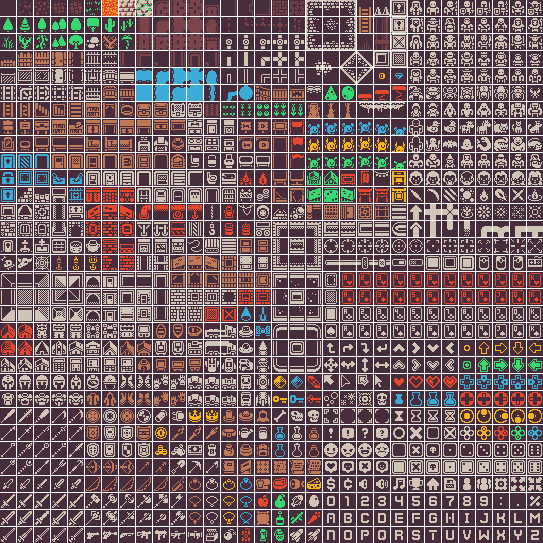
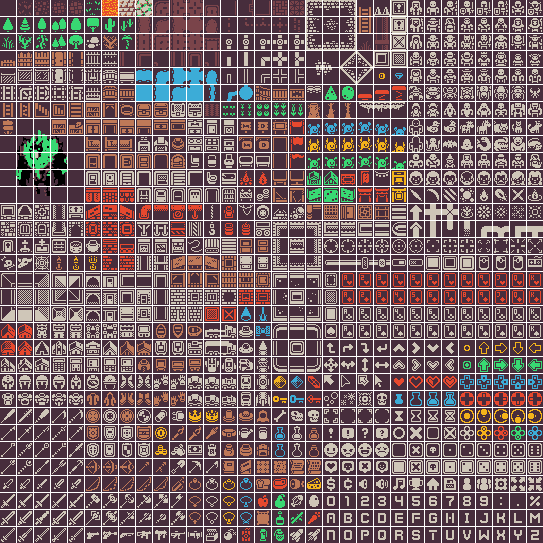
Add boss to png, add Boss class to project, add BossPart to project, implemented Boss fight

Changed region(s): [[0.0, 0.2063, 0.1473, 0.3831]]

diff --git a/src/main/java/com/codecool/dungeoncrawl/logic/MapLoader.java b/src/main/java/com/codecool/dungeoncrawl/logic/MapLoader.java
@@ -94,6 +94,64 @@ public class MapLoader {
                             cell.setType(CellType.FLOOR);
                             new Axe(cell, "axe");
                             break;
+
+                        case '0':
+                            cell.setType(CellType.FLOOR);
+                            map.setBoss(new Boss(cell));
+                            map.getBoss().addCells(cell);
+                            break;
+
+                        case '1':
+                            cell.setType(CellType.FLOOR);
+                            new BossPart(cell, map.getBoss(), 2);
+                            map.getBoss().addCells(cell);
+                            break;
+                        case 'j':
+                            cell.setType(CellType.FLOOR);
+                            new BossPart(cell, map.getBoss(), 11);
+                            map.getBoss().addCells(cell);
+                            break;
+                        case '2':
+                            cell.setType(CellType.FLOOR);
+                            new BossPart(cell, map.getBoss(), 3);
+                            map.getBoss().addCells(cell);
+                            break;
+                        case '3':
+                            cell.setType(CellType.FLOOR);
+                            new BossPart(cell, map.getBoss(), 4);
+                            map.getBoss().addCells(cell);
+                            break;
+                        case '4':
+                            cell.setType(CellType.FLOOR);
+                            new BossPart(cell, map.getBoss(), 5);
+                            map.getBoss().addCells(cell);
+                            break;
+                        case '5':
+                            cell.setType(CellType.FLOOR);
+                            new BossPart(cell, map.getBoss(), 6);
+                            map.getBoss().addCells(cell);
+                            break;
+                        case '6':
+                            cell.setType(CellType.FLOOR);
+                            new BossPart(cell, map.getBoss(), 7);
+                            map.getBoss().addCells(cell);
+                            break;
+                        case '7':
+                            cell.setType(CellType.FLOOR);
+                            new BossPart(cell, map.getBoss(), 8);
+                            map.getBoss().addCells(cell);
+                            break;
+                        case '8':
+                            cell.setType(CellType.FLOOR);
+                            new BossPart(cell, map.getBoss(), 9);
+                            map.getBoss().addCells(cell);
+                            break;
+                        case '9':
+                            cell.setType(CellType.FLOOR);
+                            new BossPart(cell, map.getBoss(), 10);
+                            map.getBoss().addCells(cell);
+                            break;
+
                         default:
                             throw new RuntimeException("Unrecognized character: '" + line.charAt(x) + "'");
                     }

diff --git a/src/main/java/com/codecool/dungeoncrawl/logic/actors/Player.java b/src/main/java/com/codecool/dungeoncrawl/logic/actors/Player.java
@@ -51,7 +51,10 @@ public class Player extends Actor {
 
     public void move(int dx, int dy) {
         Cell nextCell = cell.getNeighbor(dx, dy);
-        currentEnemy = nextCell.getActor();
+        if(nextCell.getActor() instanceof BossPart){
+            currentEnemy = nextCell.getMap().getBoss();
+        }else{
+        currentEnemy = nextCell.getActor();}
         setHealthChange(0);
         setStrengthChange(0);
         setDodgeChanceChange(0);
@@ -90,9 +93,14 @@ public class Player extends Actor {
             if(currentEnemy.getHealth() > 0) {
                 currentEnemy.attack(this);
             } else {
+                if(currentEnemy instanceof Boss){
+                    for(Cell part : ((Boss) currentEnemy).getBossParts()){
+                        part.setActor(null);
+                    }
+                } else{
                 cell.setActor(null);
                 nextCell.setActor(this);
-                cell = nextCell;
+                cell = nextCell;}
             }
         } if (nextCell.getType().equals(CellType.LAVA)){
             setHealthChange(-2);

diff --git a/src/main/java/com/codecool/dungeoncrawl/logic/GameMap.java b/src/main/java/com/codecool/dungeoncrawl/logic/GameMap.java
@@ -1,9 +1,6 @@
 package com.codecool.dungeoncrawl.logic;
 
-import com.codecool.dungeoncrawl.logic.actors.Actor;
-import com.codecool.dungeoncrawl.logic.actors.Bat;
-import com.codecool.dungeoncrawl.logic.actors.Ghost;
-import com.codecool.dungeoncrawl.logic.actors.Player;
+import com.codecool.dungeoncrawl.logic.actors.*;
 import com.codecool.dungeoncrawl.logic.items.Item;
 
 import java.util.ArrayList;
@@ -18,6 +15,7 @@ public class GameMap {
 
     private Item item;
     private List<Actor> enemies = new ArrayList<>();
+    private Boss boss;
 
     public GameMap(int width, int height, CellType defaultCellType) {
         this.width = width;
@@ -38,6 +36,13 @@ public class GameMap {
         this.player = player;
     }
 
+    public void setBoss(Boss boss){
+        this.boss = boss;
+    }
+
+    public Boss getBoss() {
+        return boss;
+    }
 
     public void setItem(Item item) {this.item = item;}
 

diff --git a/src/main/java/com/codecool/dungeoncrawl/Tiles.java b/src/main/java/com/codecool/dungeoncrawl/Tiles.java
@@ -44,6 +44,20 @@ public class Tiles {
         tileMap.put("lava", new Tile(6,0));
         tileMap.put("toxic", new Tile(19,11));
         tileMap.put("bear", new Tile(30, 8));
+
+        tileMap.put("boss1", new Tile(2,7));
+        tileMap.put("boss2", new Tile(1,8));
+        tileMap.put("boss3", new Tile(2,8));
+        tileMap.put("boss4", new Tile(3,8));
+        tileMap.put("boss5", new Tile(1,9));
+        tileMap.put("boss6", new Tile(2,9));
+        tileMap.put("boss7", new Tile(3,9));
+        tileMap.put("boss8", new Tile(1,10));
+        tileMap.put("boss9", new Tile(2,10));
+        tileMap.put("boss10", new Tile(3,10));
+        tileMap.put("boss11", new Tile(2,11));
+
+
     }
 
     public static void drawTile(GraphicsContext context, Drawable d, int x, int y) {

diff --git a/src/main/java/com/codecool/dungeoncrawl/logic/actors/Boss.java b/src/main/java/com/codecool/dungeoncrawl/logic/actors/Boss.java
@@ -1,0 +1,27 @@
+package com.codecool.dungeoncrawl.logic.actors;
+
+import com.codecool.dungeoncrawl.logic.Cell;
+
+import java.util.ArrayList;
+import java.util.List;
+
+public class Boss extends Actor{
+    private List<Cell> bossParts = new ArrayList<>();
+
+    public Boss(Cell cell) {
+        super(cell);
+    }
+
+    @Override
+    public String getTileName() {
+        return "boss1";
+    }
+
+    public void addCells(Cell cell){
+        bossParts.add(cell);
+    }
+
+    public List<Cell> getBossParts() {
+        return bossParts;
+    }
+}

diff --git a/src/main/java/com/codecool/dungeoncrawl/logic/actors/BossPart.java b/src/main/java/com/codecool/dungeoncrawl/logic/actors/BossPart.java
@@ -1,0 +1,22 @@
+package com.codecool.dungeoncrawl.logic.actors;
+
+import com.codecool.dungeoncrawl.logic.Cell;
+
+public class BossPart extends Actor{
+    private Boss boss;
+    private int part;
+    public BossPart(Cell cell, Boss boss, int part) {
+        super(cell);
+        this.boss = boss;
+        this.part = part;
+    }
+
+    public Boss getBoss() {
+        return boss;
+    }
+
+    @Override
+    public String getTileName() {
+        return "boss"+part;
+    }
+}

diff --git a/src/main/java/com/codecool/dungeoncrawl/Main.java b/src/main/java/com/codecool/dungeoncrawl/Main.java
@@ -38,7 +38,7 @@ public class Main extends Application {
     private final int mapWidth = 25;
     private final int mapHeight = 20;
 
-    String[] mapList = {"/map.txt", "/map2.txt"};
+    String[] mapList = {"/map.txt", "/map2.txt", "/bossmap.txt"};
     List<GameMap> earlierMaps = new ArrayList<>();
 
     GameMap map = MapLoader.loadMap(mapList[0]);

diff --git a/src/main/java/com/codecool/dungeoncrawl/logic/CellType.java b/src/main/java/com/codecool/dungeoncrawl/logic/CellType.java
@@ -12,6 +12,7 @@ public enum CellType {
     STAIRS("stairs");
 
 
+
     private final String tileName;
     private int stat = 0;
 
